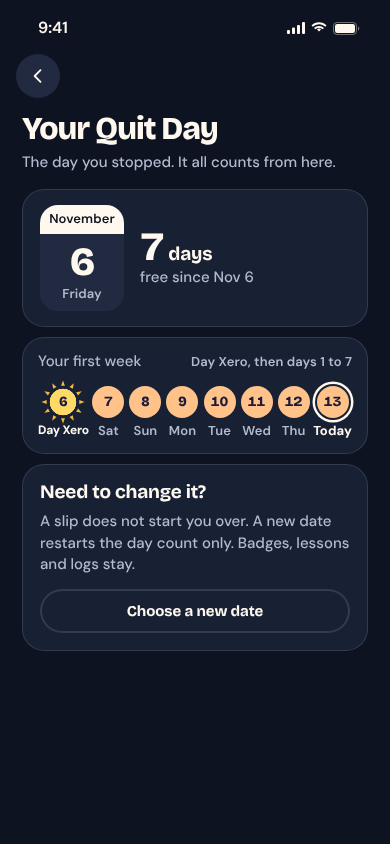
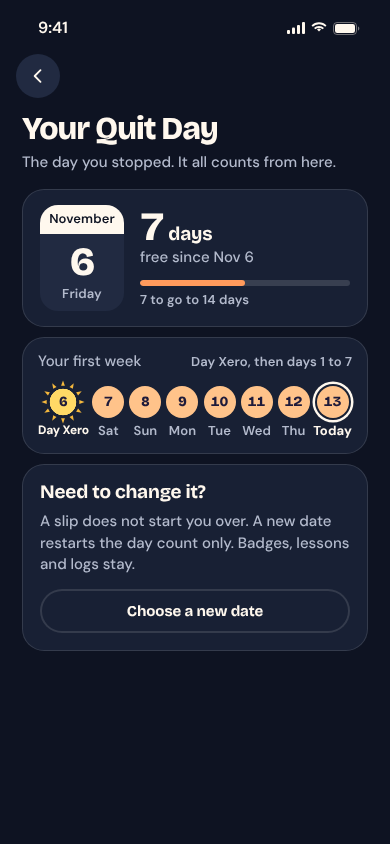
Rounds 9-10 work in progress
Claude-Session: https://claude.ai/code/session_01DZ7ApmrncqosUtJWfkxY6v

Changed region(s): [[0.3385, 0.2464, 0.8923, 0.3697], [0.5846, 0.7085, 0.6154, 0.7393]]

diff --git a/cook/site/screens/066-settings-quitDay.html b/cook/site/screens/066-settings-quitDay.html
@@ -1,6 +1,6 @@
 <!doctype html><html lang="en"><head><meta charset="utf-8"><meta name="viewport" content="width=390">
 <title>066 Quit Day</title>
-<meta name="motion" content="The date card arrives and the day count rises 0 to 7; in the first-week strip the Day Xero sun (Fri, Nov 6) stamps in first (600ms), then days 1 to 7 (Nov 7 to 13) fill in as apricot discs left to right (110ms apart), ending on the Today ring, 13; the change card follows. Choose a new date opens a calm confirm sheet first, never a direct date wheel.">
+<meta name="motion" content="The date card arrives and the day count rises 0 to 7 as the slim bar toward 14 days fills to half (900ms); in the first-week strip the Day Xero sun (Fri, Nov 6) stamps in first (600ms), then days 1 to 7 (Nov 7 to 13) fill in as apricot discs left to right (110ms apart), ending on the Today ring, 13; the change card follows. Choose a new date opens a calm confirm sheet first, never a direct date wheel.">
 <link rel="stylesheet" href="../kit/kit.css">
 <script src="../kit/chars.js"></script><script src="../kit/kit.js"></script>
 <style>
@@ -23,6 +23,11 @@
 .cal .d { font: 800 40px/1 var(--display); padding: 8px 0 4px; letter-spacing: -1px; }
 .cal .w { padding-bottom: 8px; color: var(--muted); }
 .since .num { font-size: 40px; line-height: 1; }
+/* With the duplicate medal gone, the hero carries a quiet line toward the next milestone (14 days, 7 to go). */
+.nxt { margin-top: 12px; display: grid; gap: 6px; }
+.nxt .progress { height: 6px; }
+.nxt .progress > i { background: #FF9A5C; }
+.nxt .t-cap { color: var(--muted); }
 .kept { margin-top: 12px; display: flex; align-items: center; gap: 14px; padding: 14px 16px; }
 .btn.ghost.small { box-shadow: inset 0 0 0 2px var(--line); }
 .wk { margin-top: 10px; padding: 14px 16px 14px; }
@@ -48,7 +53,7 @@
   <div class="hd"><h1 class="t-large" data-a style="--i:0">Your Quit Day</h1><p class="t-foot muted" data-a style="--i:1">The day you stopped. It all counts from here.</p></div>
   <div class="card hero" data-a style="--i:2">
     <div class="cal"><div class="m t-cap">November</div><div class="d">6</div><div class="w t-cap">Friday</div></div>
-    <div class="since" style="flex:1"><div><span class="num" data-count="7">7</span> <span class="t-head">days</span></div><div class="t-foot muted">free since Nov 6</div></div>
+    <div class="since" style="flex:1"><div><span class="num" data-count="7">7</span> <span class="t-head">days</span></div><div class="t-foot muted">free since Nov 6</div><div class="nxt"><div class="progress" role="progressbar" aria-label="7 of 14 days"><i id="nb" style="--p:0%"></i></div><span class="t-cap">7 to go to 14 days</span></div></div>
   </div>
 
   <div class="card wk" data-a style="--i:3"><div class="hdr"><span class="t-foot muted">Your first week</span><span class="t-cap muted">Day Xero, then days 1 to 7</span></div><div class="days" id="days"></div></div>
@@ -61,6 +66,7 @@
 </div>
 <script>
 document.querySelectorAll('[data-ic]').forEach(e => { e.innerHTML = DX.icon(e.dataset.ic, { size: +(e.dataset.s || 24), w: +(e.dataset.w || 2.2) }); });
+DX.beat(300, () => document.getElementById('nb').style.setProperty('--p', '50%'));
 /* Nov 6 is Day Xero: a small sun with short rays. Nov 7 to 13 are days 1 to 7 (Sat to Fri); 13 is today, Day 7. */
 const rays = `<svg viewBox="0 0 48 48" aria-hidden="true">${Array.from({ length: 12 }, (_, i) => `<path d="M24 1.5 L26 7 L22 7Z" fill="#F5B83D" transform="rotate(${i * 30} 24 24)"/>`).join('')}</svg>`;
 const wd = ['Sat', 'Sun', 'Mon', 'Tue', 'Wed', 'Thu'];

diff --git a/cook/site/screens/064-settings-quietHours.html b/cook/site/screens/064-settings-quietHours.html
@@ -1,6 +1,6 @@
 <!doctype html><html lang="en"><head><meta charset="utf-8"><meta name="viewport" content="width=390">
 <title>064 Quiet hours</title>
-<meta name="motion" content="The moon start handle pops at 10 PM, then the dial arc sweeps over its light track from it round to 7 AM (1.4s settle) where the sun end handle fades in, as the 9 counts up in the centre; the From and Until tiles, the plain while-it-is-quiet notes and the NRT toggle row arrive below on the stagger. Changing a time drags either handle with a selection haptic per 15 minutes.">
+<meta name="motion" content="The moon start handle pops at 10 PM, then the dial arc sweeps from it, over its light track, round to 7 AM (1.4s settle) where the sun end handle fades in, as the 9 counts up in the centre; the From and Until tiles, the plain while-it-is-quiet notes and the NRT toggle row arrive below on the stagger. Changing a time drags either handle with a selection haptic per 15 minutes.">
 <link rel="stylesheet" href="../kit/kit.css">
 <script src="../kit/chars.js"></script><script src="../kit/kit.js"></script>
 <style>
